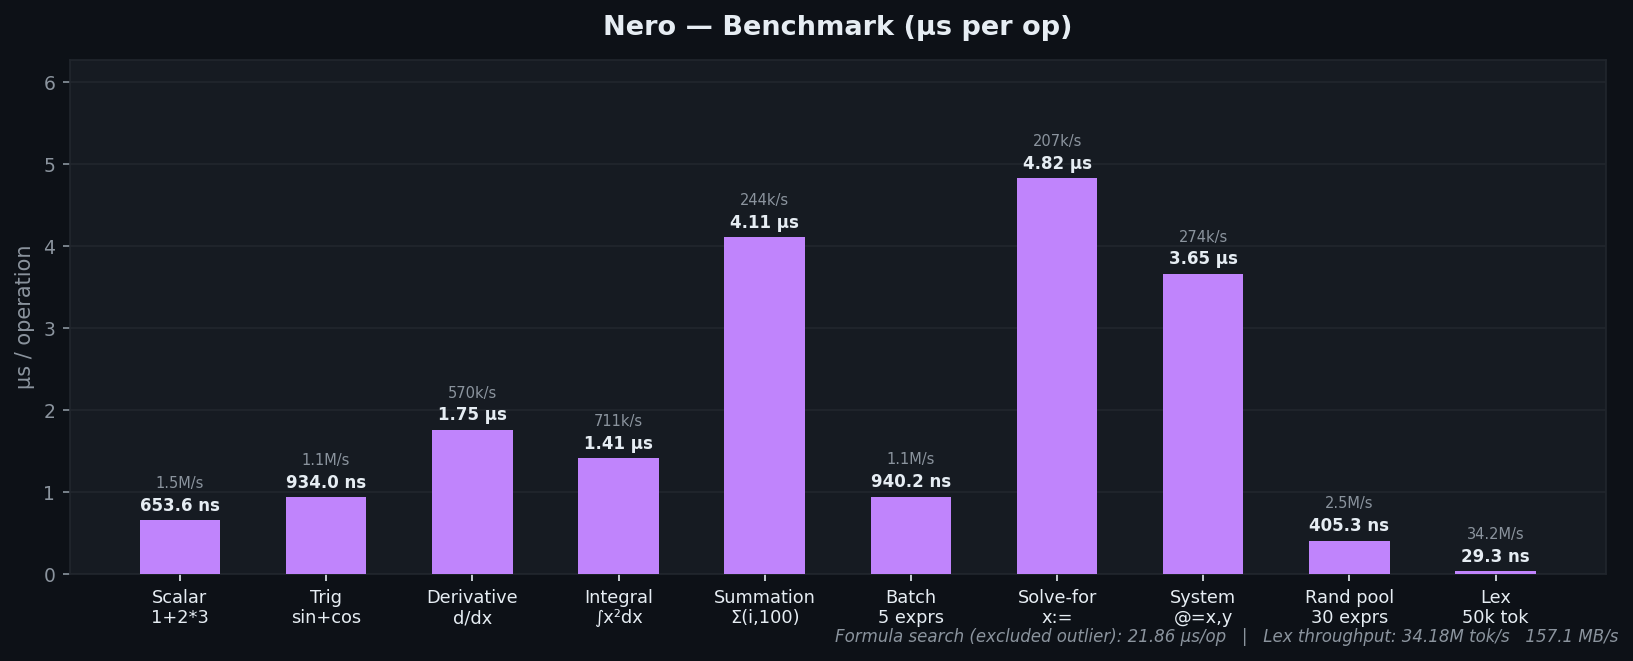
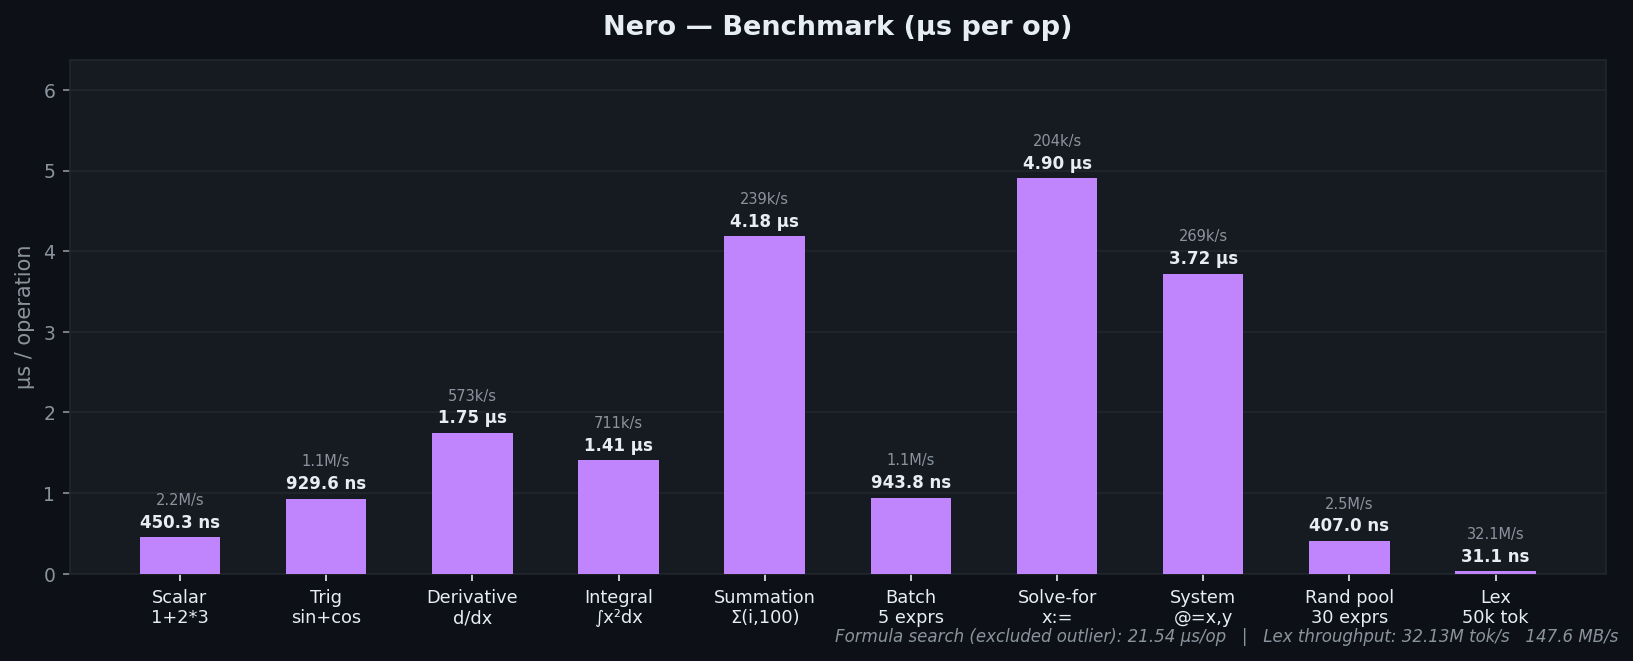
fix: memory out of bounds related errors

diff --git a/nero_wasm_interface.ts b/nero_wasm_interface.ts
@@ -152,7 +152,7 @@ export class DimensionalEvaluator {
             return embindResultToEvalResult(raw);
         } catch (e) {
             this._handle_crash(e);
-            return { success: false, error: "wasm error – evaluator reinitialized" };
+            return { success: false, error: "wasm error - evaluator reinitialized" };
         }
     }
 

diff --git a/src/test.cpp b/src/test.cpp
@@ -640,7 +640,9 @@ int main(){
         {{"\\alpha _0 = 3", "\\alpha_0 + 7"}, 10.0},
 
         // Verify \sig and \var still work as builtins when not followed by alpha chars
-        {{"\\var([2, 4])"}, 1.0}
+        {{"\\var([2, 4])"}, 1.0},
+
+        {{"i=1", "t = 4", "a = 2", "\\tau = 2", "I_0=\\frac{i}{1-e^{\\frac{-ta}{\\tau }}}"}, (double)(1.0L / (1.0L - std::exp(-4.0L)))}
     };
 
     nero_println("=== Single Expression Tests ===");

diff --git a/src/wasm_api.cpp b/src/wasm_api.cpp
@@ -178,8 +178,9 @@ bool nero_init() {
 }
 
 void nero_destroy() {
-    delete g_eval;
+    Evaluator* tmp = g_eval;
     g_eval = nullptr;
+    delete tmp;
 }
 
 bool nero_is_initialized() {

diff --git a/README.md b/README.md
@@ -252,17 +252,17 @@ Supported:
 
 | Benchmark      | µs / op    | ops / sec    | op unit |
 | -------------- | ---------- | ------------ | ------- |
-| Scalar         | 0.65 µs    | 1.53 M/s     | op      |
-| Trig           | 0.93 µs    | 1.07 M/s     | op      |
-| Derivative     | 1.75 µs    | 570.5 k/s    | op      |
+| Scalar         | 0.45 µs    | 2.22 M/s     | op      |
+| Trig           | 0.93 µs    | 1.08 M/s     | op      |
+| Derivative     | 1.75 µs    | 572.7 k/s    | op      |
 | Integral       | 1.41 µs    | 711.2 k/s    | op      |
-| Summation      | 4.11 µs    | 243.5 k/s    | op      |
+| Summation      | 4.18 µs    | 239.1 k/s    | op      |
 | Batch          | 0.94 µs    | 1.06 M/s     | expr    |
-| Formula search | 21.86 µs   | 45.7 k/s     | op      |
-| Solve-for      | 4.82 µs    | 207.3 k/s    | op      |
-| System solver  | 3.65 µs    | 273.6 k/s    | op      |
-| Random pool    | 0.41 µs    | 2.47 M/s     | expr    |
-| Lex            | 0.03 µs    | 34.18 M/s    | token   |
+| Formula search | 21.54 µs   | 46.4 k/s     | op      |
+| Solve-for      | 4.90 µs    | 203.9 k/s    | op      |
+| System solver  | 3.72 µs    | 268.8 k/s    | op      |
+| Random pool    | 0.41 µs    | 2.46 M/s     | expr    |
+| Lex            | 0.03 µs    | 32.13 M/s    | token   |
 
 <details>
 <summary>Raw numbers</summary>
@@ -270,20 +270,20 @@ Supported:
 ```
 === Nero Benchmarks ===
 
-Scalar: 1 + 2 * 3                                           65.36 ms       1530052/s
-Trig: sin(pi/6) + cos(pi/3)                                 46.70 ms       1070722/s
-Derivative: d/dx(x^3) at x=2                                17.53 ms        570554/s
-Integral: int_0^1 x^2 dx                                     7.03 ms        710959/s
-Summation: sum_{i=1}^{100}(i)                               20.53 ms        243582/s
-Batch (5 unit-carrying exprs)                               47.01 ms        212721/s
-Formula search (acceleration target)                        21.86 ms         45738/s
-Solve-for: x^2 - 4 ; x :=                                   14.47 ms        207311/s
-System solver: x+y=5, x-y=1 ; @=x,y                          7.31 ms        273688/s
-Random pool (30 exprs, 1000 rounds)                         12.16 ms         82239/s
+Scalar: 1 + 2 * 3                                           45.03 ms       2220797/s
+Trig: sin(pi/6) + cos(pi/3)                                 46.48 ms       1075821/s
+Derivative: d/dx(x^3) at x=2                                17.46 ms        572813/s
+Integral: int_0^1 x^2 dx                                     7.03 ms        711132/s
+Summation: sum_{i=1}^{100}(i)                               20.91 ms        239111/s
+Batch (5 unit-carrying exprs)                               47.19 ms        211887/s
+Formula search (acceleration target)                        21.54 ms         46430/s
+Solve-for: x^2 - 4 ; x :=                                   14.71 ms        203958/s
+System solver: x+y=5, x-y=1 ; @=x,y                          7.44 ms        268885/s
+Random pool (30 exprs, 1000 rounds)                         12.21 ms         81879/s
 
 --- Lex Throughput ---
-Lex: 50k-token string (all token types)                    731.40 ms           684/s
-  Tokens/sec: 34.18M   Throughput: 157.1 MB/s
+Lex: 50k-token string (all token types)                    778.11 ms           643/s
+  Tokens/sec: 32.13M   Throughput: 147.6 MB/s
 ```
 
 </details>
